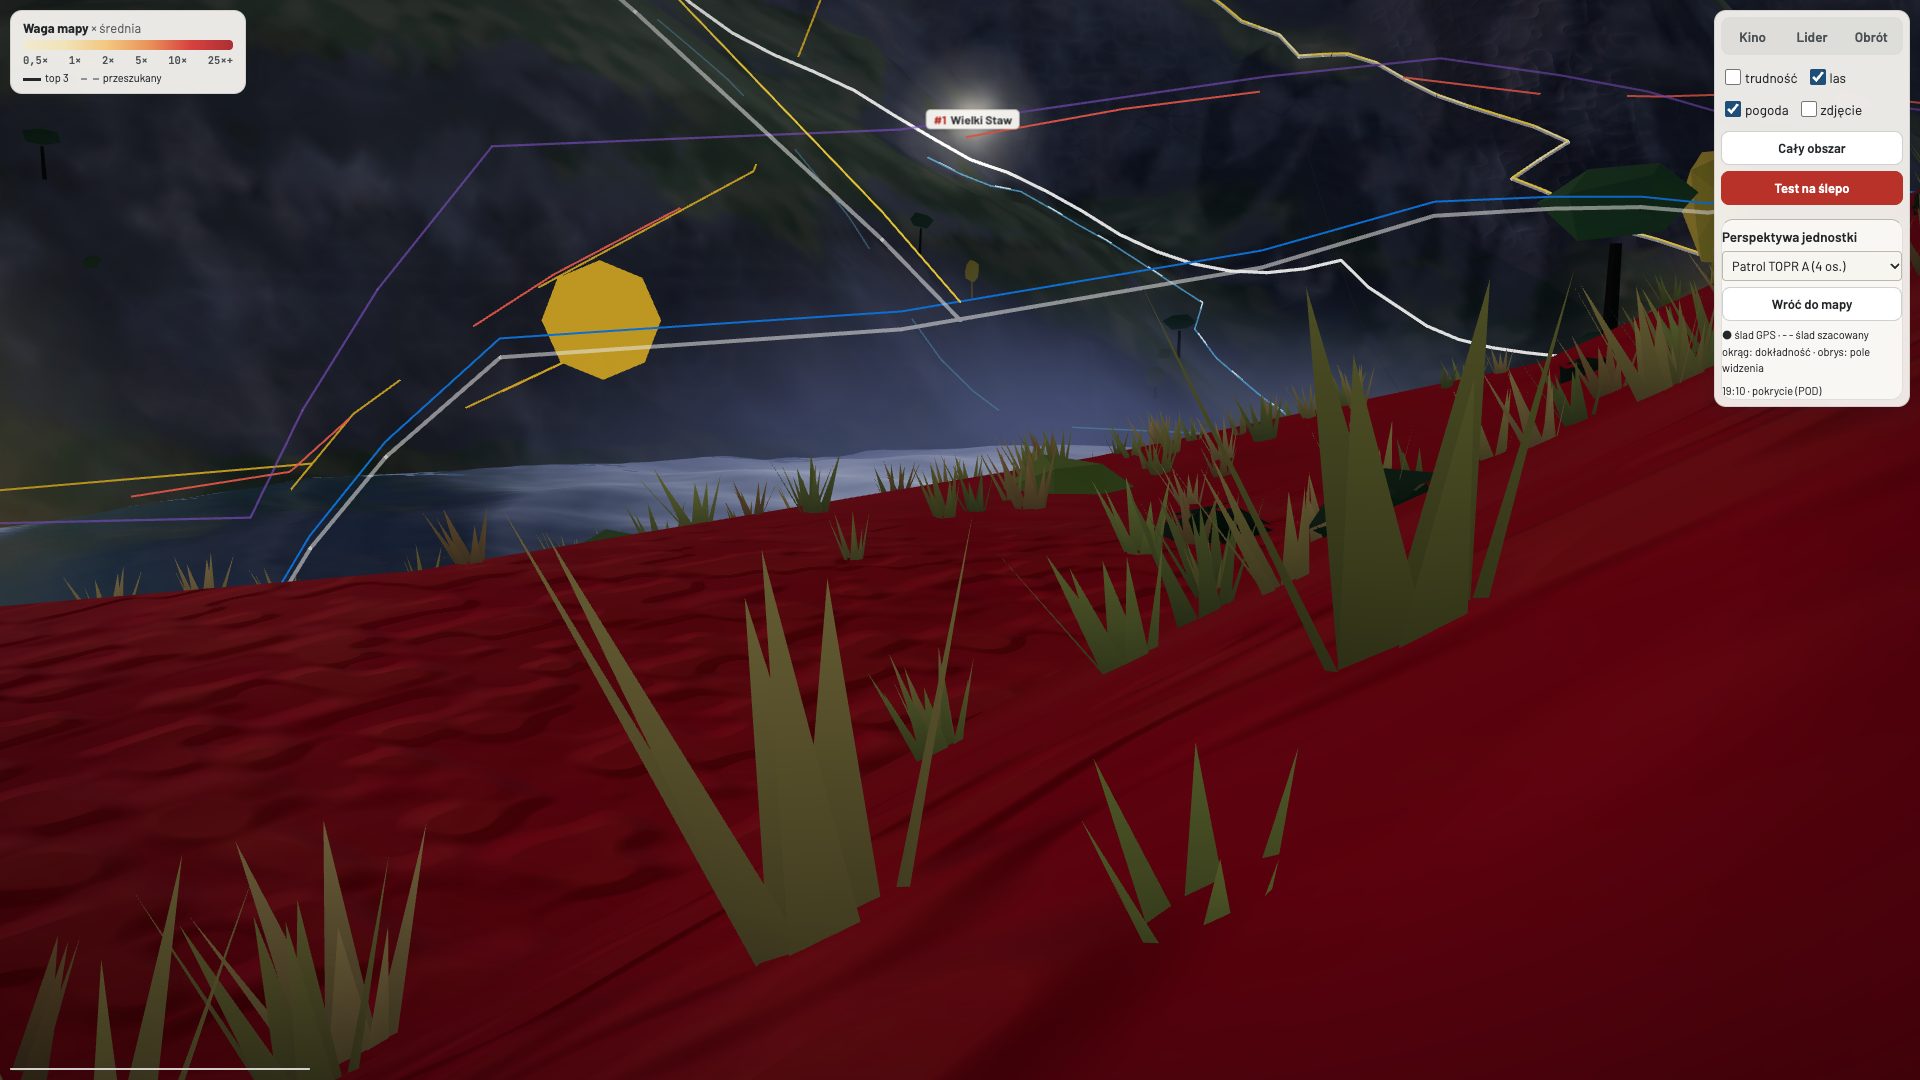
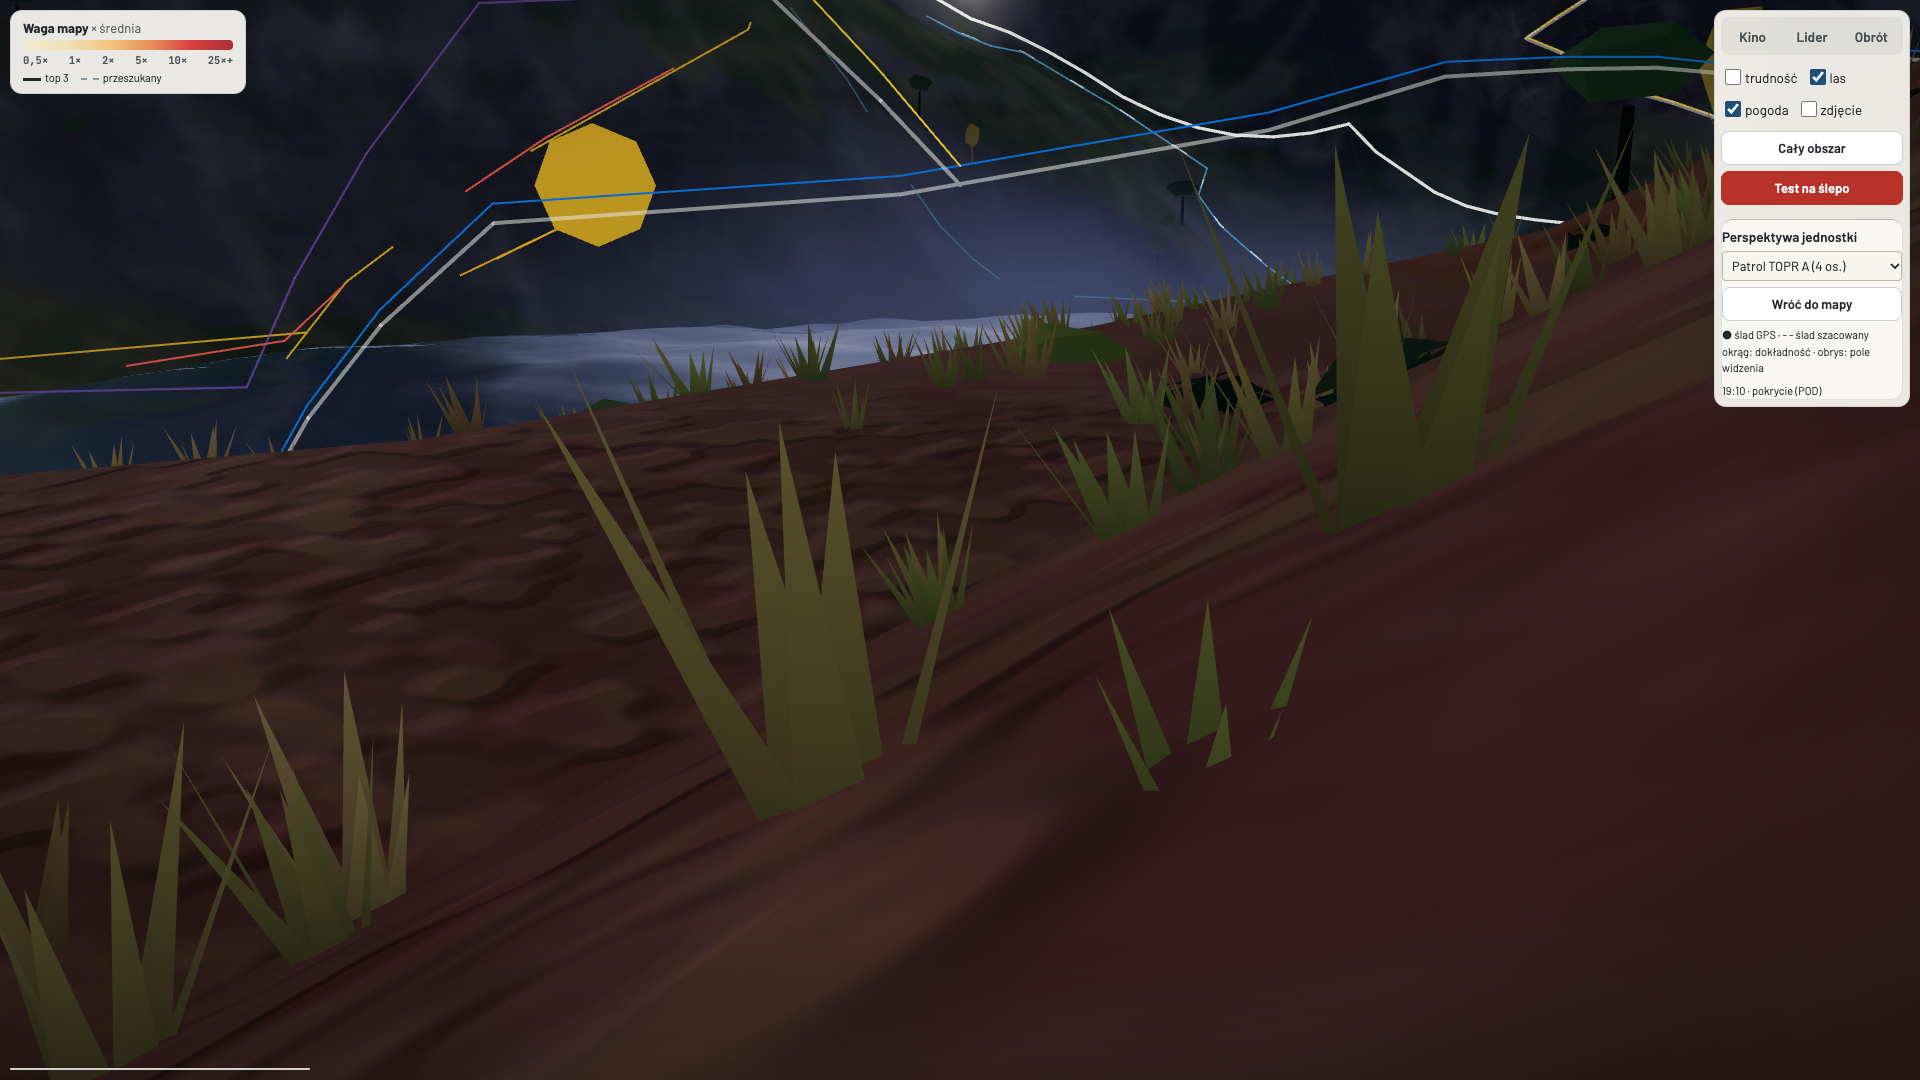
docs(rescue): re-take night and FPP 3D screenshots after the darker night and FPP fixes

diff --git a/docs/rescue-locator/shots/index.md b/docs/rescue-locator/shots/index.md
@@ -23,9 +23,9 @@ Skróty URL: `A` = `/app/?role=operator&mode=akcja`, `E3` = `/app/3d/?embed=scen
 ## Nowe ujęcia: 3D i oś czasu
 
 - `10-3d-zawrat-dzien.png` - 3D, Zawrat 17:40 (krok 5): niebo i słońce wg godziny, mgła w dolinach, odbicia w stawach, mapa cieplna i top 3 na zboczach. Slajd "design" / wow, otwarcie filmu. 1440 px. URL: `E3&step=4`
-- `11-3d-zawrat-noc.png` - 3D, Zawrat 19:45 (krok 16, po zmroku): granatowe niebo, nocne światło, ślady zespołów z godzinami. Para dzień/noc z 10. 1440 px. URL: `E3&step=15`
+- `11-3d-zawrat-noc.png` - 3D, Zawrat 19:45 (krok 16, po zmroku), powtórzony 22:37 na wersji 7559515 (ciemniejsza noc z 202ec42): ciemny teren, deszcz, mapa cieplna i ślady czytelne. Para dzień/noc z 10. 1440 px. URL: `E3&step=15`
 - `12-3d-os-czasu.png` - 3D z osią czasu na 19:20 (`postMessage({type:'time',minute:100})`): ślady GPS i szacowane, okręgi dokładności, pokrycie (POD), etykiety zdarzeń z godzinami. Funkcja 2 (pokrycie). 1400 px. URL: `E3&step=13` + postMessage
-- `13-3d-fpp.png` - 3D, widok z perspektywy Patrolu TOPR A (`time` minute 90, potem `postMessage({type:'fpp',actorId:'topr-a'})`): kamera przy ziemi, trawa na pierwszym planie, ślady i "#1 Wielki Staw" w tle. Trawa nie zasłania całego widoku (poprawka 57aaf6e już wdrożona), ale ziemia jest cała czerwona od mapy cieplnej - do slajdu raczej nie, najwyżej jako krótki kadr w filmie. URL: `E3&step=13` + postMessage
+- `13-3d-fpp.png` - 3D, widok z perspektywy Patrolu TOPR A (`time` minute 90, potem `postMessage({type:'fpp',actorId:'topr-a'})`), powtórzony 22:37 na wersji 7559515 (kamera na powierzchni terenu i przygaszona mapa z ad29f77): stok z trawą, ślady i Wielki Staw w tle, bez czerwonej ziemi. Krótki kadr do filmu. URL: `E3&step=13` + postMessage
 - `14-2d-os-czasu.png` - operator 2D w trybie Historia, krok 14/17 (19:20): ślady GPS i szacowane z dokładnością (Patrol TOPR A ±29 m, Dron ±78 m), pole widzenia, pokrycie, legenda "przeszukano 0,3% obszaru". 2D pokazuje oś czasu (ślady), więc ujęcie zrobione. URL: `A&view=2d&sc=zawrat&time=hist&step=13`
 - `15-3d-kino.png` - tryb Kino (pasy kinowe, napis "17:46 Plan od żony: na Zawrat i z powrotem"), niski przelot nad doliną nocą. Nie ma parametru URL ani komunikatu postMessage dla Kina - włączony przyciskiem "Kino" przez `document.getElementById('btn-cine').click()`; to tylko ruch kamery, bez zapisu (i tak wszystko poza GET było blokowane). Kadr ok. 14 s po starcie. URL: `E3&step=4` + klik Kino
 
